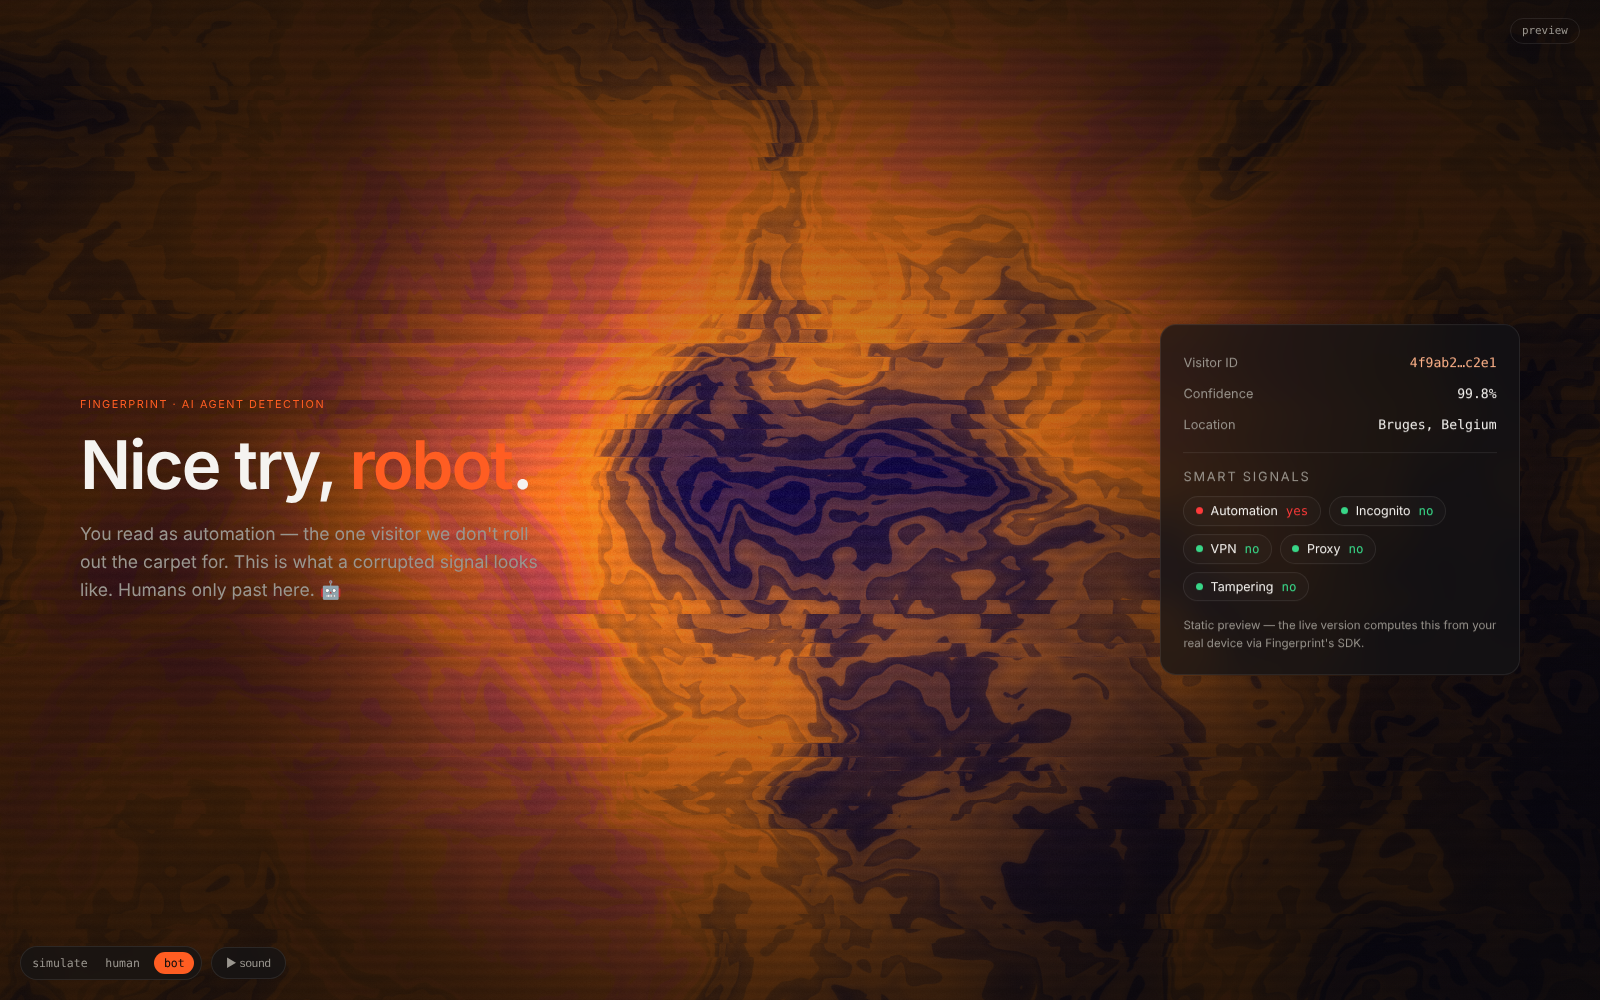
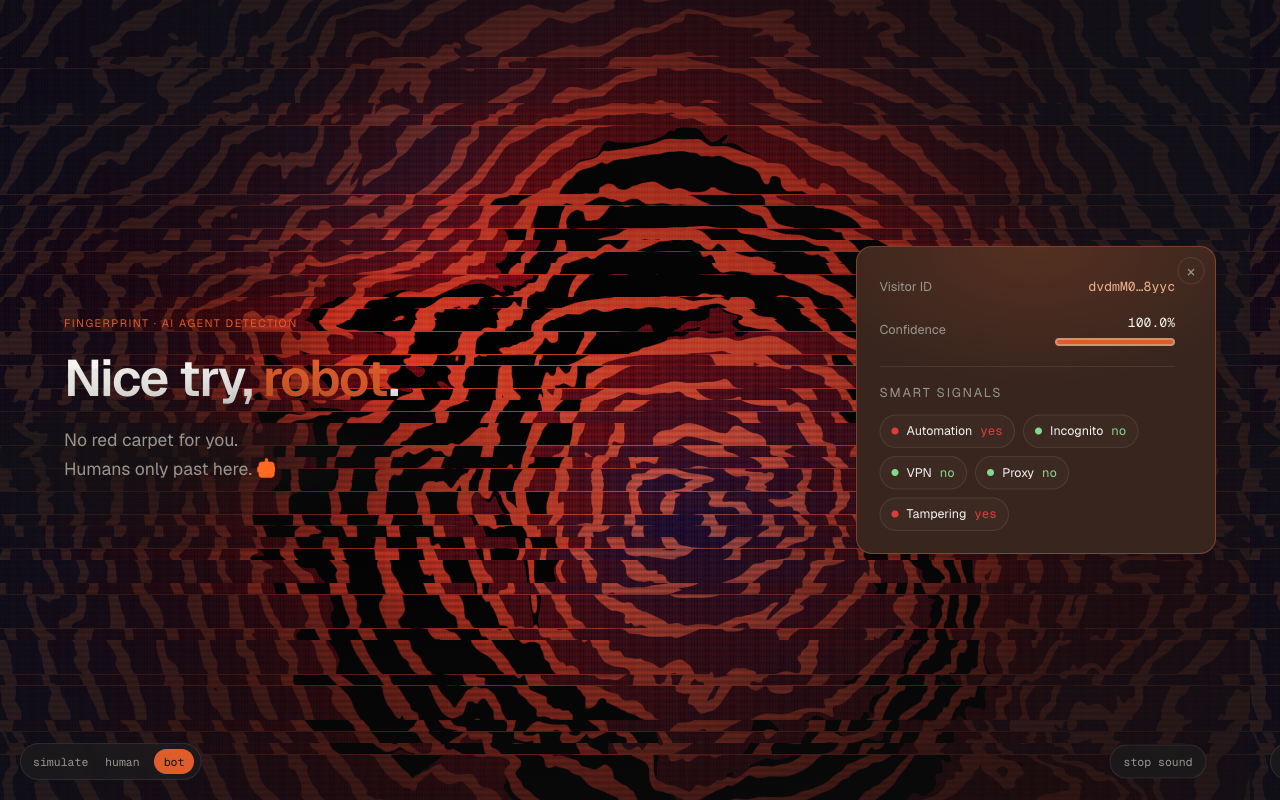
Update the README to the current demo and replace its screenshots.
The old images still showed the previous homepage and copy.

diff --git a/README.md b/README.md
@@ -1,41 +1,55 @@
 # Signal Portrait
 
-An interactive demo of Fingerprint device intelligence: your visitor identity,
-rendered live as a generative WebGL signal field. Built for Ward's application to
-the **Design Engineer** role at Fingerprint.
+An interactive demo of Fingerprint device intelligence. The page opens on a generic field. After you ask, it identifies the browser and draws that visitor as a generative WebGL portrait. Built for Ward's application to the **Design Engineer** role at Fingerprint.
 
-> **The idea:** a fingerprint is a flow field. This renders *your* visitor ID as
-> one — so the abstract identifier becomes something organic and singular, about
-> the person looking at it. Humans get an elegant portrait; detected bots/AI
-> agents get a **corrupted** one.
+Humans get a warm, colored whorl. A detected bot, or a visit chosen as an AI agent, gets a corrupted red one.
 
-![entry](docs/shot-entry.png)
-![particle bridge](docs/shot-bridge.png)
-![bot state](docs/shot-bot.png)
+![Homepage](docs/shot-entry.png)
 
-## Run it (≈2 minutes)
+*Homepage. Thin gray rings, not yet a fingerprint.*
+
+![Identified](docs/shot-bridge.png)
+
+*After the click. The rings have tightened into this device's portrait, and the panel shows the signals it was computed from.*
+
+![Bot](docs/shot-bot.png)
+
+*A bot visit. The same field, glitched.*
+
+## Run it
 
 ```bash
 npm install
-cp .env.local.example .env.local   # then paste your keys
-npm run dev                         # http://localhost:3000
+npm run dev    # http://localhost:3000
 ```
 
-In `.env.local`:
+Create `.env.local` (it is gitignored) with:
 
 | var | where | notes |
 |---|---|---|
 | `NEXT_PUBLIC_FINGERPRINT_PUBLIC_KEY` | Fingerprint dashboard → API keys (public) | safe in the browser |
-| `NEXT_PUBLIC_FINGERPRINT_REGION` | `eu` for a Belgium workspace | `us` / `eu` / `ap` |
-| `FINGERPRINT_SECRET_KEY` | dashboard → API keys (secret) | **server only**, gitignored |
+| `NEXT_PUBLIC_FINGERPRINT_REGION` | `eu` for this workspace | `us` / `eu` / `ap` |
+| `FINGERPRINT_SECRET_KEY` | dashboard → API keys (secret) | **server only** |
 
-It degrades gracefully: **no keys** → the visual runs in "demo mode"; **public
-key only** → live visitor ID + portrait; **public + secret** → full Smart Signals.
+**No keys** → the visual runs in demo mode. **Public key only** → a live visitor ID and portrait. **Public + secret** → confidence, location, and Smart Signals.
 
-Use the **simulate: human / bot** toggle (bottom-left) to trigger the bot state
-yourself — you're (presumably) not a bot.
+The source is at [github.com/flybylow/fingerprint](https://github.com/flybylow/fingerprint). To deploy, import that repo in Vercel and set the three variables above.
 
-## How it works
+## The experience
+
+1. **Homepage.** The eyebrow is "Fingerprint · device intelligence". The title is **Every device leaves a fingerprint.** Under it: "Every visitor is unique and identifiable, even anonymous ones. Reveal the fingerprint we compute from your browser." The field is a set of thin gray rings on a fixed center, bent slightly so they are not perfect circles, darker toward the middle so the type stays readable. They drift outward with the homepage pad. Two actions: **Show your fingerprint →** and **or visit as an AI agent**.
+
+2. **A person.** The title becomes **This is your device, computed in real time.** The line under it is "Your unique fingerprint, computed from the signals in the panel." Color arrives with the warp: the rings tighten, shift off center, and bend into a whorl seeded by the visitor ID. About 1,800 particles lift off the field and fade into the card. Closing the card does not send them back. The card shows the visitor ID, a confidence bar, location when the server has it, and Smart Signals.
+
+3. **A bot.** Choosing "visit as an AI agent", or a detection of automation, lands on **Nice try, robot.** with "No red carpet for you. Humans only past here." The portrait glitches and shifts red.
+
+4. **The switch.** After the card opens, the bottom-left control is already on **human** or **bot**, matching what was chosen or what identification found. Either side can still be overridden.
+
+5. **Sound.** On when the browser allows it. The button reads **stop sound** while the pad is playing and **play sound** while it is quiet. The homepage is a low beating pad. A human identification crossfades into a warmer A-major chord. A bot swaps the bed for a TV-test tone. Buttons get a dry tick.
+
+How a visitor ID becomes the whorl is written up in [docs/portrait.md](docs/portrait.md).
+
+## How identification works
 
 ```
 Browser ──getData()──► Fingerprint agent ──► { event_id, visitor_id }
@@ -46,61 +60,31 @@ Browser ──getData()──► Fingerprint agent ──► { event_id, visitor
                  └── trusted identification + Smart Signals (bot, incognito, vpn, …)
 ```
 
-- The `visitor_id` is used only to **seed the shader** (deterministic: same
-  device → same portrait). All trust-bearing data comes from the server call.
-- `event.bot === "bad"` (automation / AI agent) flips the UI into the glitch
-  state — Fingerprint's own AI Agent Detection, turned into a moment.
+The agent starts on the reveal click, not on page load. The `visitor_id` only seeds the shader, so the same device always draws the same portrait. Trust-bearing data comes from the server call. `event.bot === "bad"` (automation / AI agent) is what flips the portrait into the glitch state.
 
-## Stack (maps to the job description)
+## Stack
 
 | Requirement | Here |
 |---|---|
 | React + modern framework | Next.js 16 (App Router), TypeScript |
-| Canvas animations + shaders *(required)* | three.js + hand-written GLSL (`SignalPortrait.tsx`) |
-| Prototyping motion in the browser *(required)* | motion.dev (`motion/react`) |
-| three.js / WebGL / motion.dev *(preferred)* | all three |
+| Canvas animations + shaders | three.js + hand-written GLSL (`SignalPortrait.tsx`) |
+| Motion in the browser | motion.dev (`motion/react`) |
 | Their SDKs | `@fingerprint/agent` (client, on reveal) + `@fingerprint/node-sdk` (server) |
 | Perf / a11y | DPR cap, reduced-motion path, SSR-safe, lazy GL |
-
-## The experience
-
-1. **Gated entry** — land on the ambient fingerprint with a **"Show your
-   fingerprint →"** CTA, plus a quieter **"or visit as an AI agent"** that
-   emulates how an agent/bot sees the page.
-2. **The particle bridge** *(the centrepiece)* — on click, the field crystallizes
-   and ~1,800 three.js particles lift off nearly the whole fingerprint, then fade
-   into the data panel as it appears. The data comes *from* your fingerprint.
-   (See `SignalPortrait.tsx` — `PVERT`/`PFRAG`.)
-3. **Magnetic cursor** — the field bends toward the pointer.
-4. **Signal-reactive** — hovering a Smart Signal chip ripples the field; a bad-bot
-   verdict corrupts it (RGB split, datamosh tears, red particles).
-
-**Audio** is on when the page allows it. The button reads "stop sound" while the
-pad is playing and "play sound" while it is quiet. Bot swaps that bed for a TV-test tone — a beating 1 kHz square, a slow
-sweep, and a layer of noise — plus a short sting. Buttons get a dry tick.
-
-A **simulate: human / bot** toggle (shown after reveal) lets a human reviewer
-trigger the agent state.
 
 ## Project layout
 
 ```
 app/
-  layout.tsx              root shell (fonts). The agent starts on reveal, not here.
+  layout.tsx              root shell (fonts). The agent does not start here.
   page.tsx                renders <Experience/>
-  api/identify/route.ts   server: secret-key Server-API call (official node-sdk)
+  api/identify/route.ts   server: secret-key Server API call
   components/
-    Experience.tsx        orchestration: identify → enrich → render
-    SignalPortrait.tsx    three.js + GLSL shader (the showpiece)
-    SignalsPanel.tsx      visitor id, confidence, Smart Signal chips (motion.dev)
+    Experience.tsx        identify → enrich → render
+    SignalPortrait.tsx    three.js + GLSL field and particle flight
+    SignalsPanel.tsx      visitor id, confidence, Smart Signals
 lib/
   signals.ts              types, deterministic seed, server-event normalization
-  audio.ts                minimal WebAudio (on by default, gesture if the browser blocks it)
-preview/index.html        standalone static preview (no build, no keys)
-docs/                     PRD.md, BRAND.md, screenshots
+  audio.ts                WebAudio beds (home, welcome, bot)
+docs/                     portrait, PRD, brand, screenshots
 ```
-
-## Notes / next steps
-- Deploy to Vercel for a shareable link (needs the three env vars).
-- Confirm workspace region (default `eu`).
-- The raw-event JSON is available in a collapsible panel for engineers.
